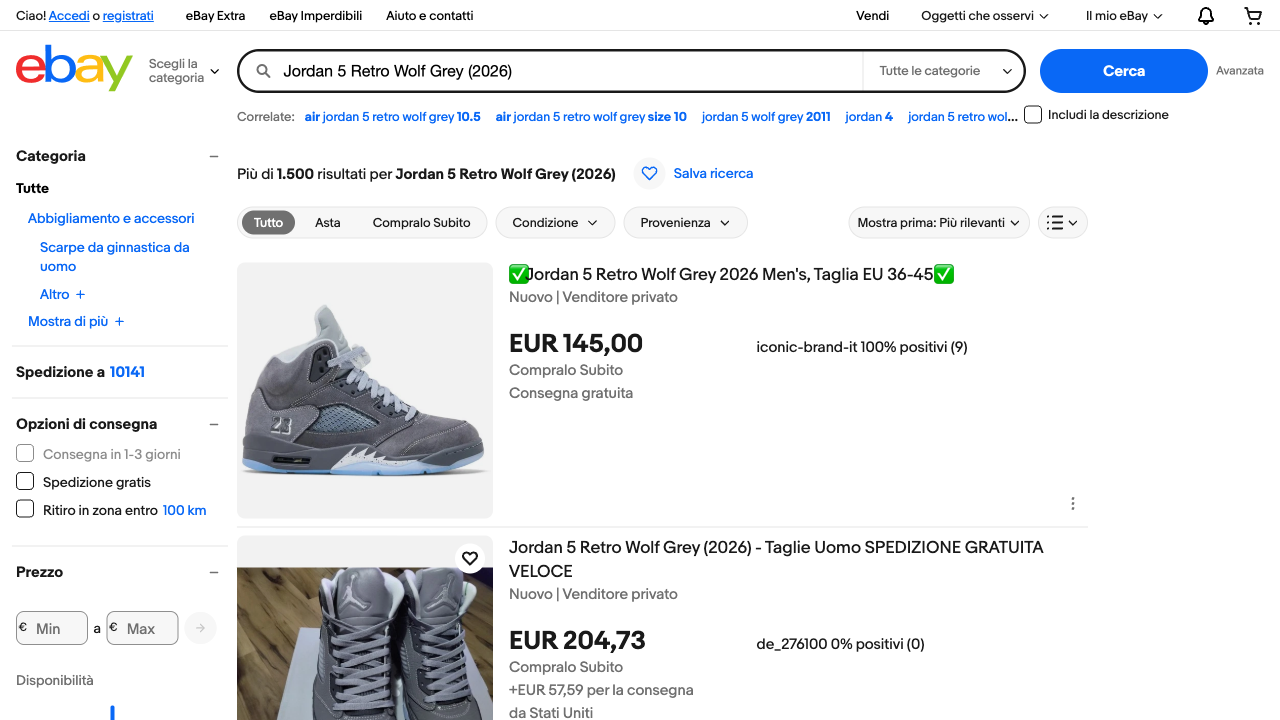
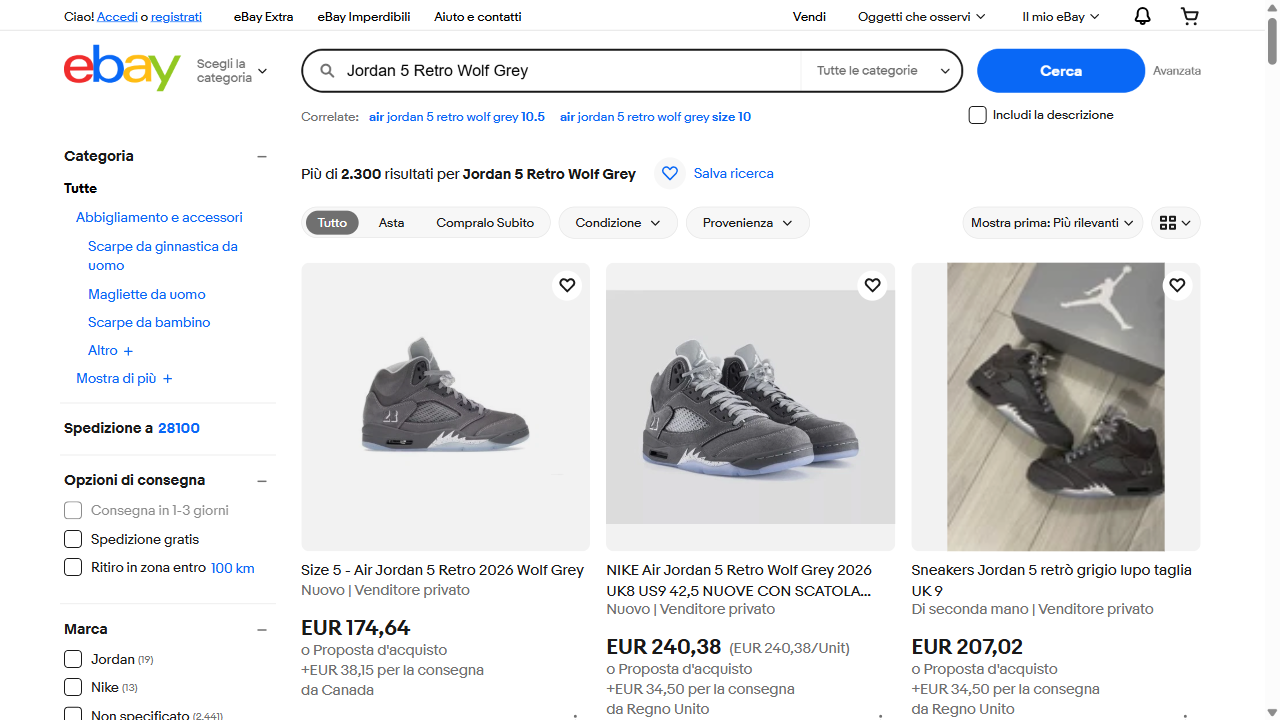
Aggiunta Policy Windows

diff --git a/core_ai/cerca_nuovo_prezzo_agent.py b/core_ai/cerca_nuovo_prezzo_agent.py
@@ -1,11 +1,15 @@
 import os
 import re
 import random
+import sys          
+import asyncio
 from dotenv import load_dotenv
 from agno.agent import Agent
 from agno.models.ollama import Ollama
 from playwright.sync_api import sync_playwright
 
+if sys.platform == "win32":
+    asyncio.set_event_loop_policy(asyncio.WindowsProactorEventLoopPolicy())
 
 load_dotenv()
 # 1. DEFINIAMO IL NOSTRO TOOL CON ISTRUZIONI PIÙ RIGIDE